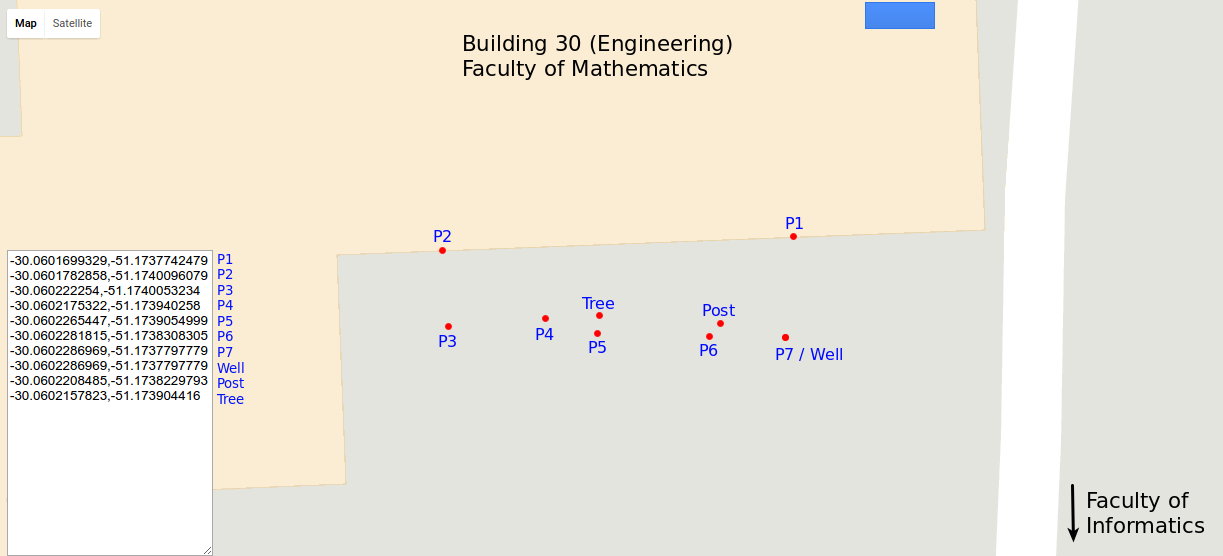
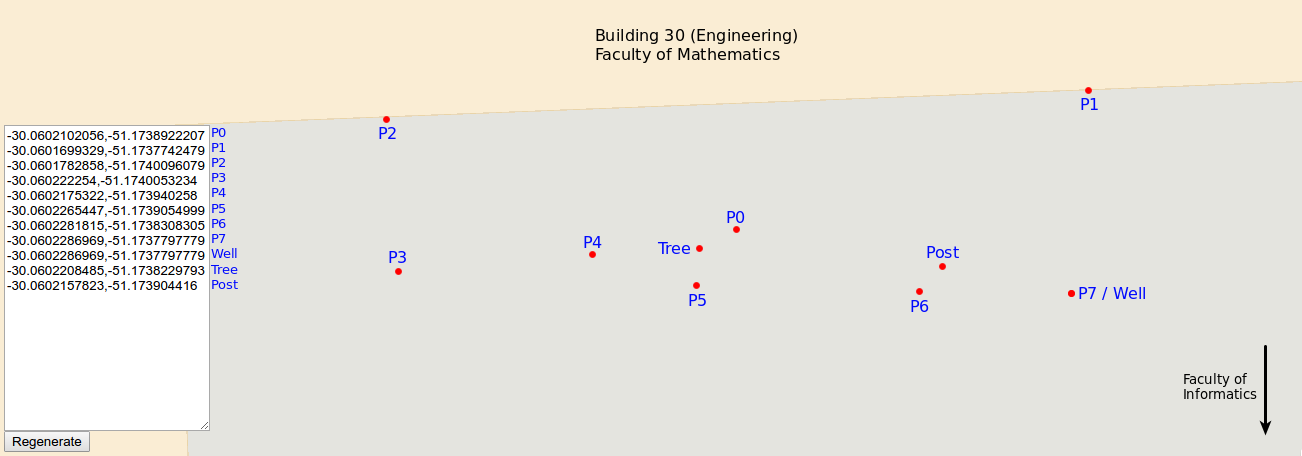
changed virtual arena map, coordinates and README

diff --git a/maps/geoloc/virtual_arena.py b/maps/geoloc/virtual_arena.py
@@ -1,5 +1,6 @@
 #!/usr/bin/env python
 
+import yaml
 import geoloc
 
 #Instantiate trilaterator class
@@ -51,13 +52,24 @@ p6 = locator.get_point((p6a, p6b, p6c))
 p7 = locator.get_point((p7a, p7b, p7c))
 
 f.write("\nVirtual Arena:")
-f.write("\n\tP1: " + str(p1[0]) + "," + str(p1[1]))
-f.write("\n\tP2: " + str(p2[0]) + "," + str(p2[1]))
-f.write("\n\tP3: " + str(p3[0]) + "," + str(p3[1]))
-f.write("\n\tP4: " + str(p4[0]) + "," + str(p4[1]))
-f.write("\n\tP5: " + str(p5[0]) + "," + str(p5[1]))
-f.write("\n\tP6: " + str(p6[0]) + "," + str(p6[1]))
-f.write("\n\tP7: " + str(p7[0]) + "," + str(p7[1]))
+f.write("\n\tGlobal Coordinates:")
+f.write("\n\t\tP0:\t-30.0602102056,-51.1738922207")
+f.write("\n\t\tP1:\t" + str(p1[0]) + "," + str(p1[1]))
+f.write("\n\t\tP2:\t" + str(p2[0]) + "," + str(p2[1]))
+f.write("\n\t\tP3:\t" + str(p3[0]) + "," + str(p3[1]))
+f.write("\n\t\tP4:\t" + str(p4[0]) + "," + str(p4[1]))
+f.write("\n\t\tP5:\t" + str(p5[0]) + "," + str(p5[1]))
+f.write("\n\t\tP6:\t" + str(p6[0]) + "," + str(p6[1]))
+f.write("\n\t\tP7:\t" + str(p7[0]) + "," + str(p7[1]))
+
+f.write("\n\tLocal Coordinates (relative to P0):")
+f.write("\n\t\tP0:\t0.0,\t\t0.0")
+with open("../../settings/minefield.yaml", "r") as stream:
+		yaml_minefield = yaml.load(stream)
+		mf_corners = yaml_minefield['minefield']
+		for i in range(1, len(mf_corners)+1):
+			corner_name = "corner{}".format(i)
+			f.write("\n\t\tP{}:\t{},\t{}".format(i, mf_corners[corner_name]['latitude'], mf_corners[corner_name]['longitude']))
 
 #Obstacles
 well = locator.get_point((wellA, wellB, wellC))
@@ -65,10 +77,16 @@ post = locator.get_point((postA, postB, postC))
 tree = locator.get_point((treeA, treeB, treeC))
 
 f.write("\n\nObstacles:")
-f.write("\n\tWell: " + str(well[0]) + "," + str(well[1]))
-f.write("\n\tPost: " + str(post[0]) + "," + str(post[1]))
-f.write("\n\tTree: " + str(tree[0]) + "," + str(tree[1]))
+f.write("\n\tGlobal Coordinates:")
+f.write("\n\t\tWell: " + str(well[0]) + "," + str(well[1]))
+f.write("\n\t\tPost: " + str(post[0]) + "," + str(post[1]))
+f.write("\n\t\tTree: " + str(tree[0]) + "," + str(tree[1]))
+f.write("\n\tLocal Coordinates (relative to P0):")
+f.write("\n\t\tWell: 10.8414412908,-2.0325296335")
+f.write("\n\t\tPost: 6.6759533706,\t-1.1691806717")
+f.write("\n\t\tTree: -1.1745529239,-0.6197298011")
 
 f.write("\n\nNOTE: P7 = Well")
+f.write("\nNOTE: P0 = Center")
 
 f.close()

diff --git a/maps/geoloc/virtual_arena/README.md b/maps/geoloc/virtual_arena/README.md
@@ -1,8 +1,8 @@
 # Virtual Arena
 
-This folder includes a text file with the geodetic coordinates of the virtual delimiters of the competition's arena, and some obstacles found within it.
+This folder includes a text file with the global and local coordinates of the virtual delimiters of the competition's arena, and some obstacles found within it.
 
-The coordinates were trilaterated using the geoloc class described in the folder above. The three figures below provide intuition to the position of the delimiters and obstacles, in a map and in the real world.
+The global coordinates were trilaterated using the geoloc class described in the folder above. The local coordinates were obtained by converting the global coordinates to UTM and then subtracting them from the center coordinate. The three figures below provide intuition to the position of the delimiters and obstacles, in a map and in the real world.
 
 ![](virtual_arena.png)
 ![](virtual_arena_world_1.png)
